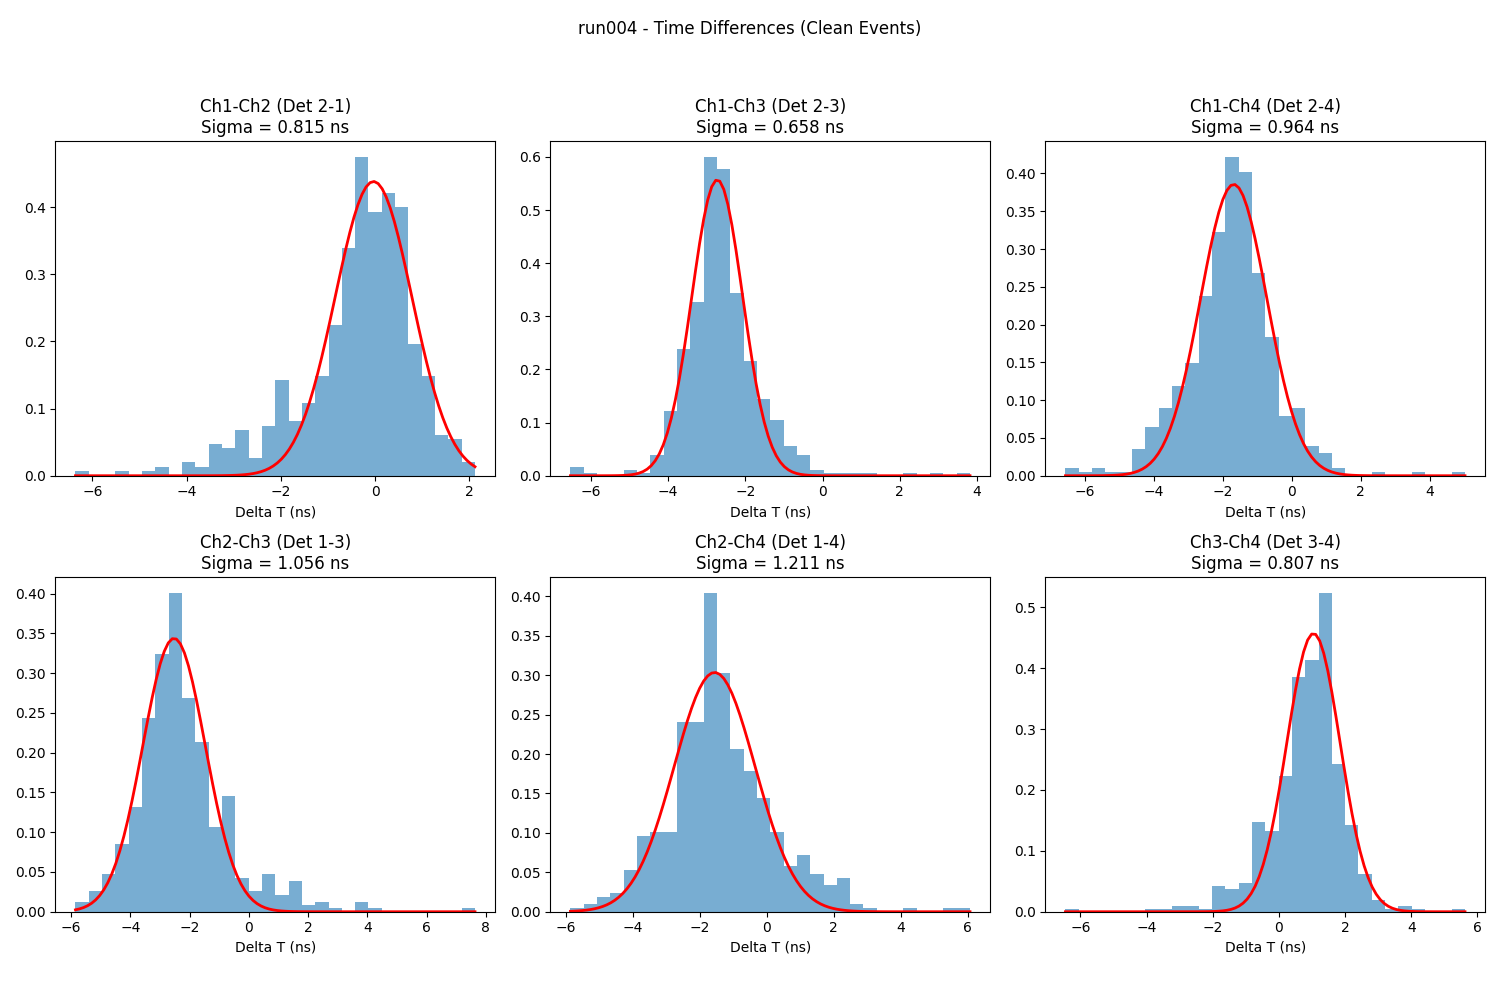
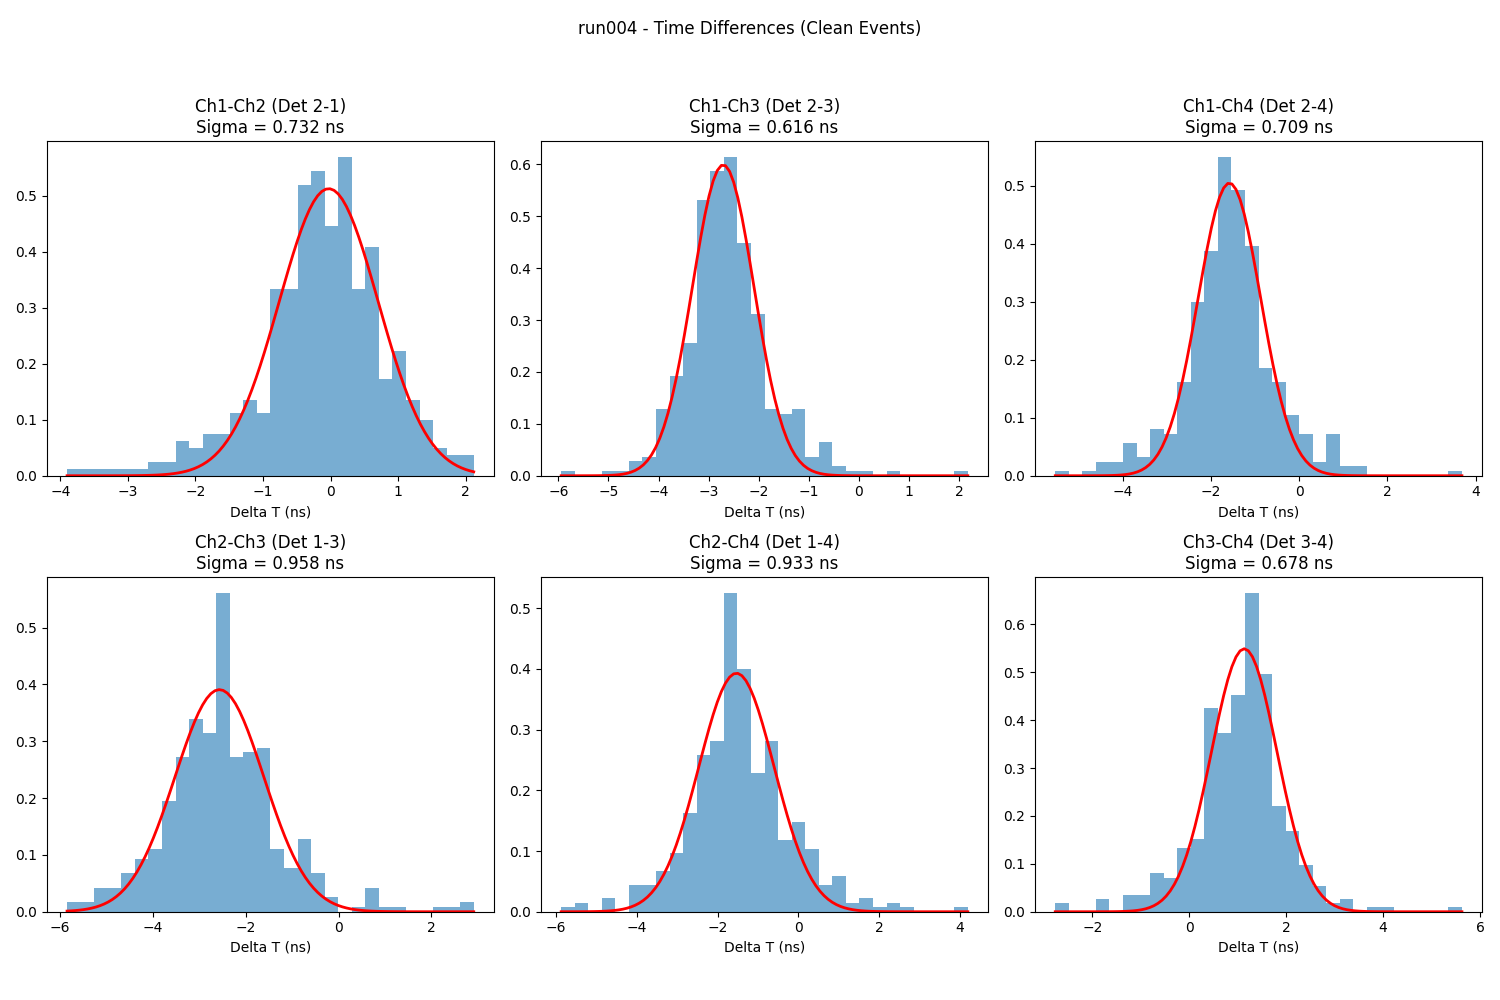
chore: tighten software collimation cut to 90% of Landau peak

diff --git a/analysis/analyse_physical.py b/analysis/analyse_physical.py
@@ -238,7 +238,7 @@ def analyze_run(run_dir):
         bin_centers = (bins[:-1] + bins[1:]) / 2
         peak_idx = np.argmax(counts)
         peak_val = bin_centers[peak_idx]
-        cut_val = max(DEFAULT_CUT_THRESHOLD_MV / 1000.0, peak_val * 0.8)
+        cut_val = max(DEFAULT_CUT_THRESHOLD_MV / 1000.0, peak_val * 0.9)
         cuts[ch] = cut_val
         
     # --- Categorize Events ---
